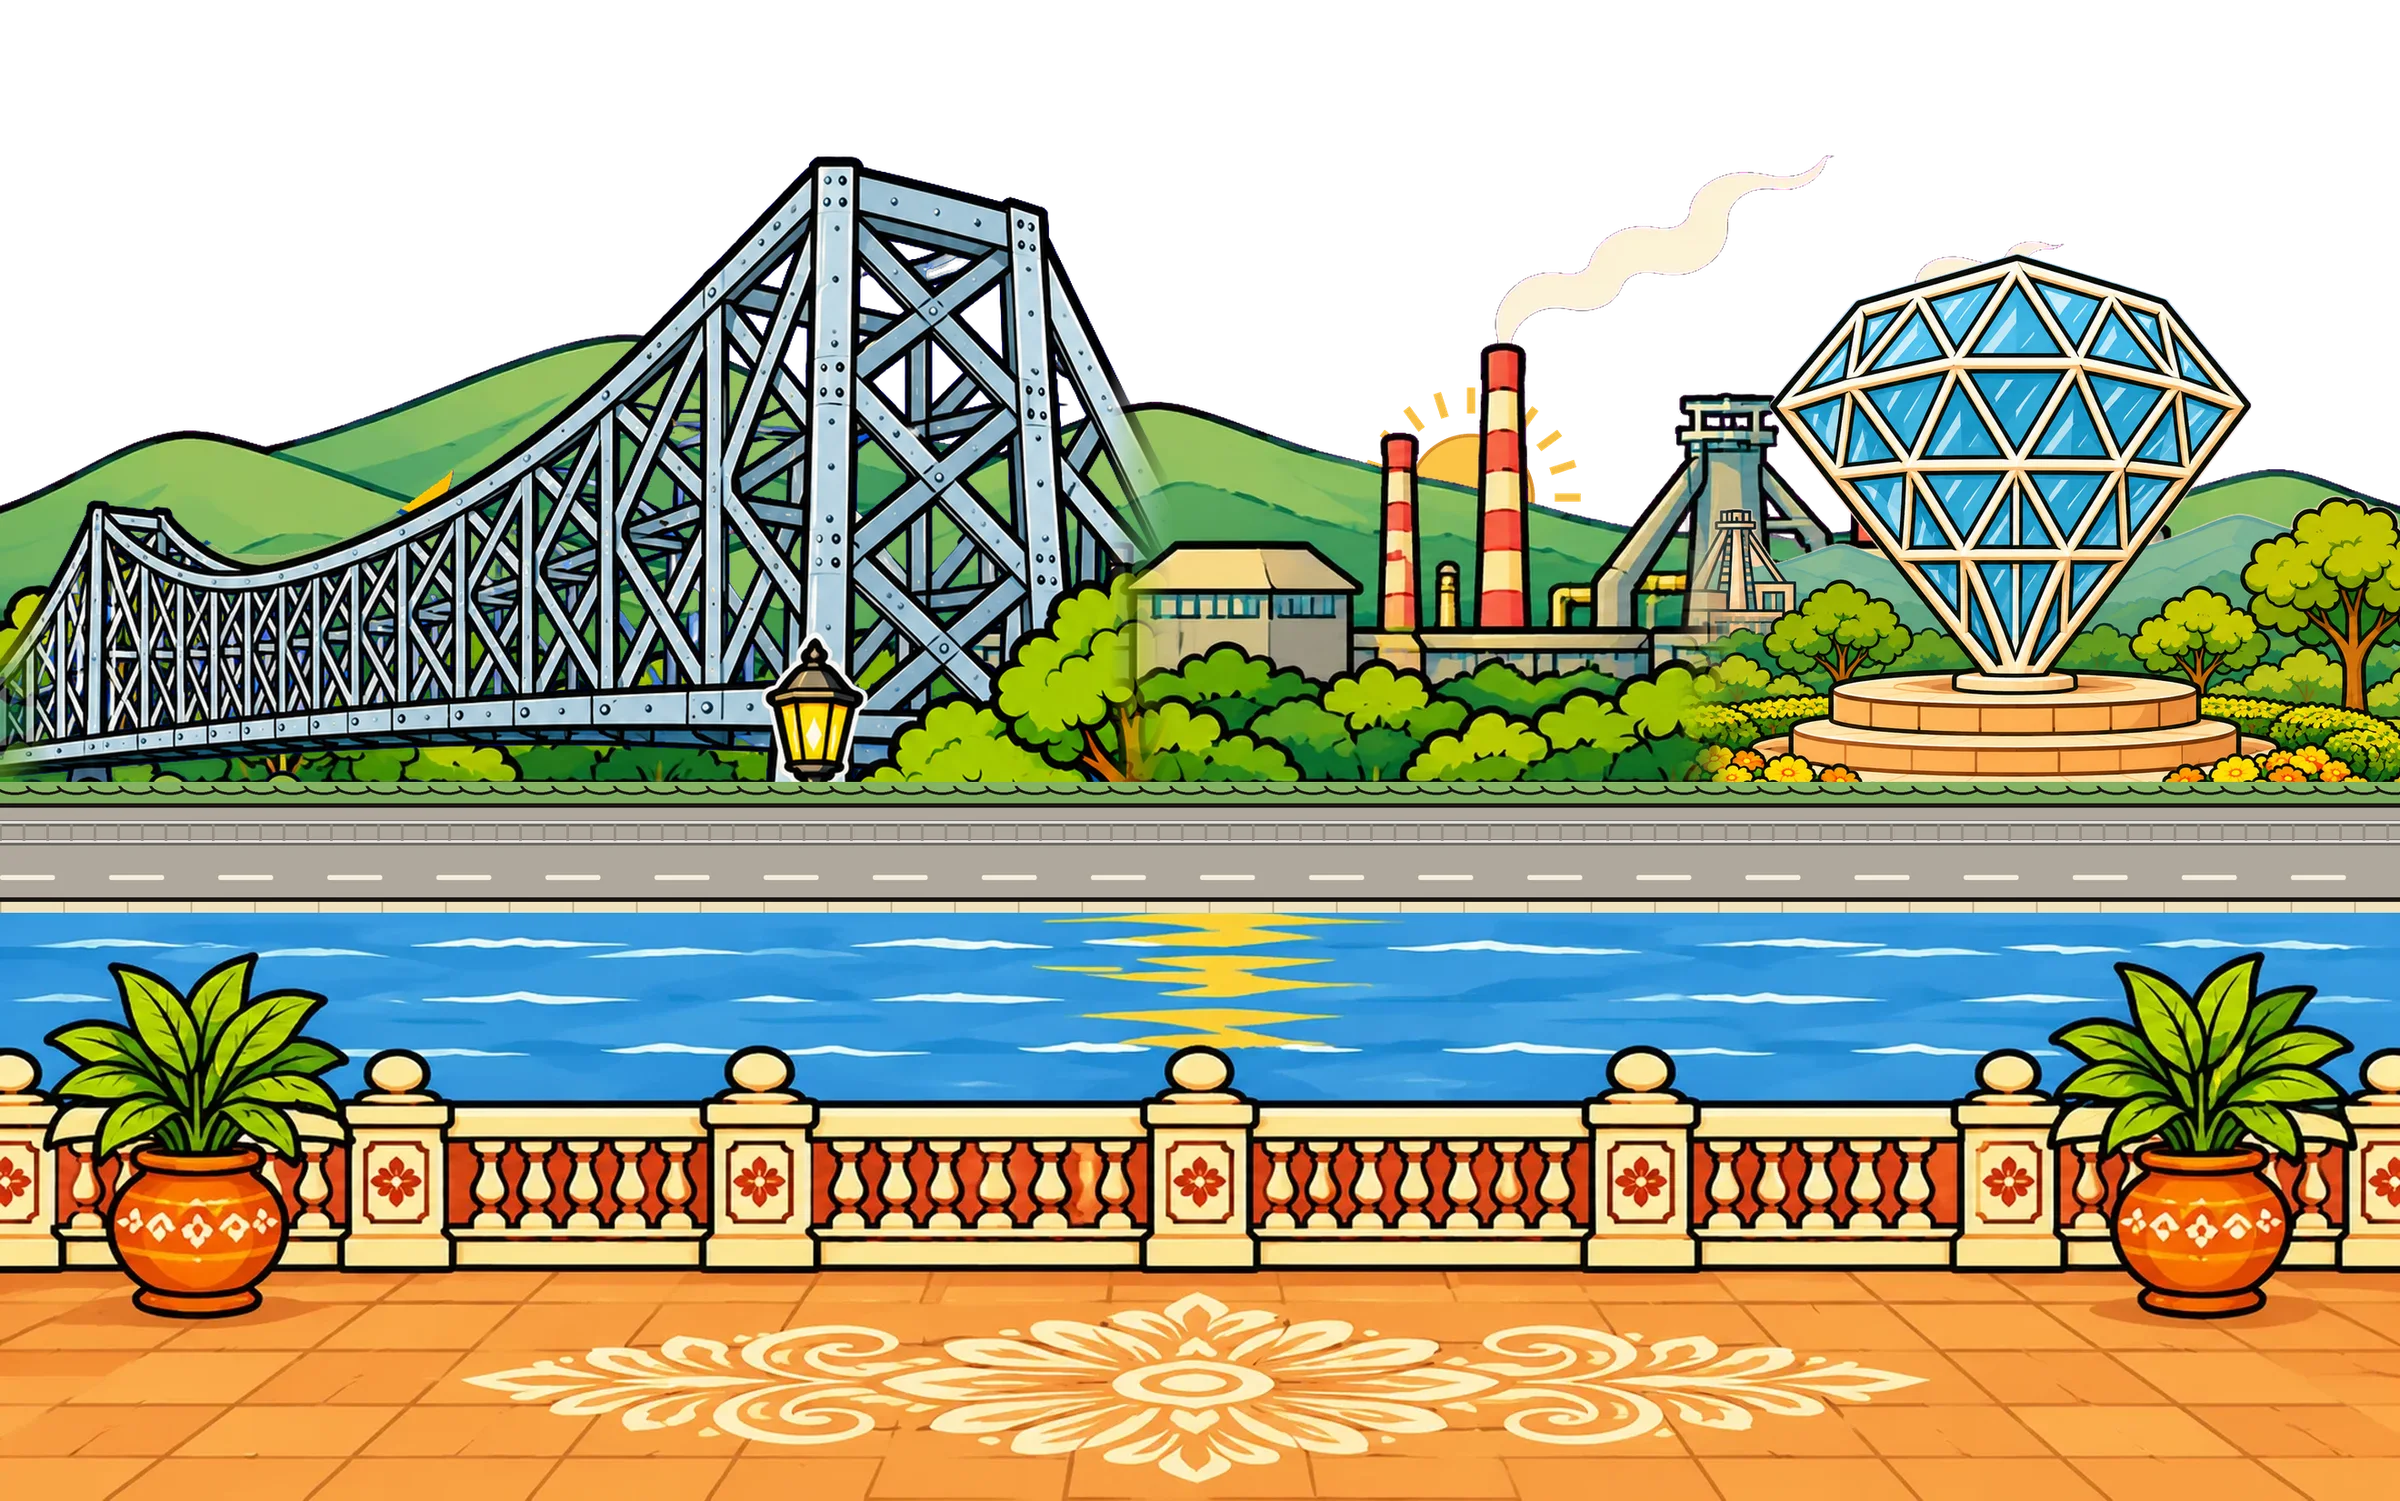
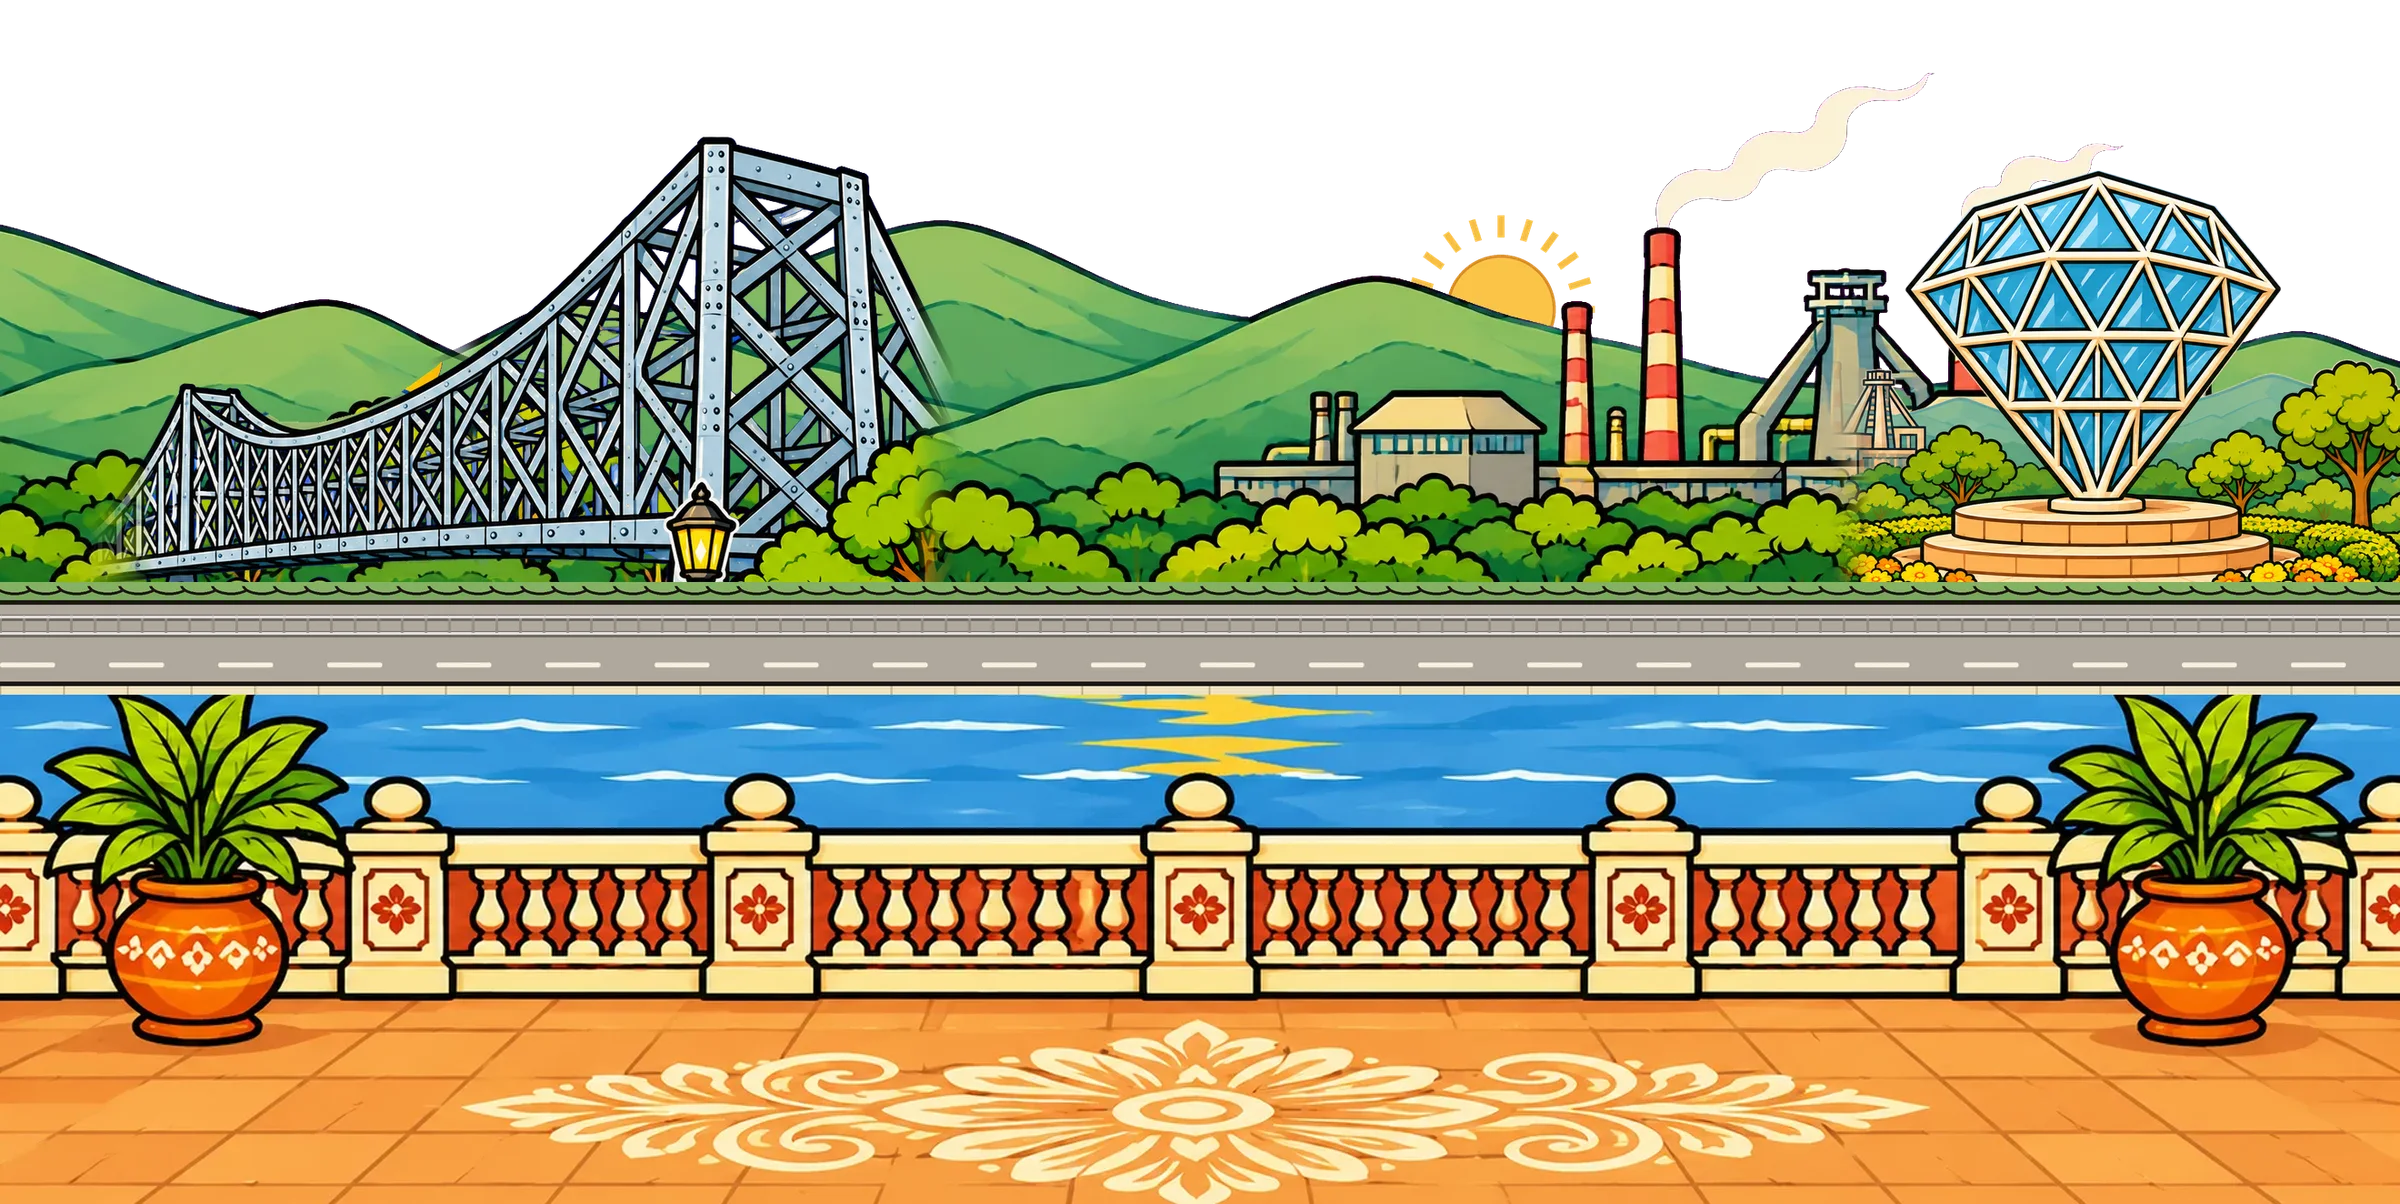
Opening page: same-size marigold strands in a V, bigger elephant and thali on phones; first page fits laptop screens

diff --git a/src/styles.css b/src/styles.css
@@ -123,15 +123,18 @@ button { font: inherit; color: inherit; cursor: pointer; border: 0; background: 
 }
 
 /* ---- opening screen: a sindoor seal on cream paper, then the doors ---- */
-.gate { position: fixed; inset: 0; z-index: 50; overflow: hidden; --seal: min(66vw, 40svh, 430px); --bed: min(36vw, 300px, 17svh); }
+.gate { position: fixed; inset: 0; z-index: 50; overflow: hidden; --seal: min(66vw, 40svh, 430px); --bed: min(46vw, 330px, 21svh); }
 .g-page { position: absolute; inset: 0; z-index: 2; overflow: hidden; background: #fbefd6 50% 50% / cover no-repeat; }
 .g-garland { position: absolute; z-index: 4; top: -1px; left: 0; right: 0; height: min(15vw, 120px); background: 50% 0 / auto 100% repeat-x; pointer-events: none; }
 /* marigold strands hanging from the toran: a long one with a shorter one inside it (and a third outside on wide screens) */
-.g-mala { position: absolute; z-index: 3; top: 0; width: auto; pointer-events: none; transform-origin: 50% 0; }
-.g-mala-l { left: var(--x); } .g-mala-r { right: var(--x); }
-.g-m1 { --x: max(6px, 2vw); height: min(46svh, 132vw); }
-.g-m2 { --x: 12.5vw; height: min(26svh, 74vw); }
-.g-m3 { display: none; }
+/* marigold strands hanging from the toran, all the same size: each one is the same picture,
+   pulled up so only --len shows, and the bells make a V (longest near the edge, shorter inward) */
+.g-mala { position: absolute; z-index: 3; height: var(--mh); top: calc(var(--len) - var(--mh)); width: auto; pointer-events: none; transform-origin: 50% 0; }
+.g-mala-l { left: calc(var(--i) * var(--mh) * 0.096 + 0.4vw); } .g-mala-r { right: calc(var(--i) * var(--mh) * 0.096 + 0.4vw); }
+.gate { --mh: 40svh; }
+.g-m1 { --i: 0; --len: 30svh; } .g-m2 { --i: 1; --len: 36svh; } .g-m3 { --i: 2; --len: 24svh; }
+.g-m4, .g-m5, .g-m6 { display: none; }
+.g-inv { max-width: calc(100vw - 2 * (var(--mh) * 0.288 + 0.4vw) - 12px); }
 .g-pais { position: absolute; z-index: 1; width: min(46vw, 360px); opacity: .5; pointer-events: none; }
 .g-pais-l { left: 0; top: 9svh; } .g-pais-r { right: 0; top: 9svh; scale: -1 1; }
 .g-flowers { position: absolute; z-index: 3; left: 0; right: 0; bottom: 0; height: min(9svh, 90px); background: 50% 100% / auto 100% repeat-x; pointer-events: none; }
@@ -148,7 +151,7 @@ button { font: inherit; color: inherit; cursor: pointer; border: 0; background: 
 .g-title { position: relative; z-index: 2; display: flex; flex-direction: column; align-items: center; font: 400 calc(var(--seal) * 0.13) / 1.05 var(--display); color: #fff6e4; text-shadow: 0 2px 10px #4e0a0e73; }
 .g-title:lang(en) { font-size: calc(var(--seal) * 0.105); }
 .g-pulse { position: absolute; inset: 22%; z-index: 2; border-radius: 50%; border: 2px solid #fff1d6bf; pointer-events: none; }
-.g-names { position: relative; z-index: 3; margin-top: 2.4svh; font: 400 clamp(26px, 7.4vw, 50px) / 1.2 var(--display); color: var(--crimson); }
+.g-names { position: relative; z-index: 3; margin-top: 2.4svh; font: 400 clamp(24px, 6.6vw, 46px) / 1.2 var(--display); color: var(--crimson); }
 .g-date { position: relative; z-index: 3; margin-top: 4px; font-size: clamp(15px, 4vw, 20px); color: var(--ink); }
 .g-langs { position: relative; z-index: 5; display: flex; gap: 6px; margin-top: 2.2svh; }
 .g-langs button { min-height: 40px; padding: 6px 16px; border: 1px solid #b3123f66; border-radius: 99px; font-size: 16px; background: #fffaf0cc; }
@@ -179,9 +182,10 @@ button { font: inherit; color: inherit; cursor: pointer; border: 0; background: 
   .g-langs button { min-height: 44px; padding: 8px 22px; font-size: clamp(16px, 2.3svh, 21px); }
   .g-hint { font-size: clamp(16px, 2.3svh, 21px); }
   .g-garland { height: min(14svh, 130px); }
-  .g-m1 { --x: 4.6vw; height: min(60svh, 560px); }
-  .g-m2 { --x: 10.4vw; height: min(44svh, 420px); }
-  .g-m3 { display: block; --x: 1.2vw; height: min(50svh, 470px); }
+  .gate { --mh: min(66svh, 620px); }
+  .g-m1 { --len: 49svh; } .g-m2 { --len: 53svh; } .g-m3 { --len: 57svh; }
+  .g-m4 { --i: 3; --len: 54svh; } .g-m5 { --i: 4; --len: 51svh; } .g-m6 { --i: 5; --len: 48svh; }
+  .g-m4, .g-m5, .g-m6 { display: block; }
   .g-pais { width: min(30vw, 440px); }
   .g-bed { width: min(21vw, 46svh, 330px); bottom: 2svh; }
   .g-bed-l { left: 3vw; } .g-bed-r { right: 3vw; }

diff --git a/src/components/Layer.jsx b/src/components/Layer.jsx
@@ -7,18 +7,19 @@ import { artUrl } from '../art/index.js'
 //   w,h size of the picture
 const u = (n) => `calc(${n} * var(--u))`
 
-export default function Layer({ id, art, w, h, x = 0, y = 0, ax = 'c', ay = 'b', z = 1, flip, full, kind = 'prop', fit = 'contain', road }) {
+export default function Layer({ id, art, w, h, x = 0, y = 0, ax = 'c', ay = 'b', z = 1, flip, full, kind = 'prop', fit = 'contain', road, tall }) {
   const name = art || id
   const url = artUrl(name)
   // something that rides on a painted road: sized and placed as fractions of the backdrop strip's width,
   // so it stays on its lane whatever the screen size ({ base: strip width in units, at: lane height, rw: own width })
   if (road) {
-    const sw = `max(${u(road.base)}, 100cqw)`
+    const sw = `max(${u(road.base)}, 100cqw${road.tall ? `, ${road.tall} * 100cqh` : ''})`
     const width = `calc(${sw} * ${road.rw})`
     const style = { zIndex: z, width, height: `calc(${width} * ${h / w})`, left: '50%', marginLeft: `calc(${width} / -2)`, bottom: `calc(${sw} * ${road.at})` }
     return <div className={`layer k-${kind}`} data-l={id} style={style}><div className="layer-in"><img src={url} alt="" draggable="false" decoding="async" style={{ objectFit: 'contain', objectPosition: 'center bottom' }} /></div></div>
   }
-  const style = { zIndex: z, height: u(h), width: full ? `max(${u(w)}, 100cqw)` : u(w) }
+  // `tall`: a strip may also grow so it reaches this many screen heights, cropping its sides on boxier screens
+  const style = { zIndex: z, height: u(h), width: full ? `max(${u(w)}, 100cqw${tall ? `, ${(tall * w / h).toFixed(4)} * 100cqh` : ''})` : u(w) }
   // a full-width strip keeps its proportions when a wide screen stretches it
   if (full) style.height = `calc(${style.width} * ${h / w})`
   if (kind === 'frame') { style.width = u(w); style.height = '100cqh' }

diff --git a/src/scenes/scenes.js b/src/scenes/scenes.js
@@ -33,10 +33,10 @@ export const SCENES = [
       ...clouds(),
       // one painted far bank (Howrah Bridge, the steel works, the Tata Park diamond, a road with tram rails),
       // a wide picture for laptops and a tall one for phones; the tram and the taxi drive along its road
-      L('scene-w', 2200, 1376, { art: 'hero-wide', z: 2, full: true, kind: 'ground' }),
+      L('scene-w', 2200, 1103, { art: 'hero-wide', z: 2, full: true, kind: 'ground', tall: 0.88 }),
       L('scene-t', 1300, 1765, { art: 'hero-tall', z: 2, full: true, kind: 'ground' }),
-      L('tram-w', 1400, 588, { art: 'kolkata-tram', z: 3, road: { base: 2200, at: 0.2729, rw: 0.108 } }),
-      L('taxi-w', 1400, 629, { art: 'kolkata-taxi', z: 4, road: { base: 2200, at: 0.2519, rw: 0.076 } }),
+      L('tram-w', 1400, 588, { art: 'kolkata-tram', z: 3, road: { base: 2200, tall: 1.7552, at: 0.236, rw: 0.095 } }),
+      L('taxi-w', 1400, 629, { art: 'kolkata-taxi', z: 4, road: { base: 2200, tall: 1.7552, at: 0.2177, rw: 0.066 } }),
       L('tram-t', 1400, 588, { art: 'kolkata-tram', z: 3, road: { base: 1300, at: 0.4317, rw: 0.2 } }),
       L('taxi-t', 1400, 629, { art: 'kolkata-taxi', z: 4, road: { base: 1300, at: 0.3889, rw: 0.135 } }),
       person('hero-groom', 470, 960, -230, 110, 7), person('hero-bride', 520, 960, 210, 110, 8),

diff --git a/src/components/Gate.jsx b/src/components/Gate.jsx
@@ -108,7 +108,7 @@ export default function Gate({ c, lang, langs, names, setLang, onOpen, onGone })
       <div className="g-page" style={{ backgroundImage: `url(${paper})` }}>
         <img className="g-pais g-pais-l" src={artUrl('gate-paisley')} alt="" />
         <img className="g-pais g-pais-r" src={artUrl('gate-paisley')} alt="" />
-        {['l', 'r'].flatMap((s) => [3, 1, 2].map((n) => <img key={s + n} className={`g-mala g-mala-${s} g-m${n}`} src={artUrl('gate-mala')} alt="" />))}
+        {['l', 'r'].flatMap((s) => [1, 2, 3, 4, 5, 6].map((n) => <img key={s + n} className={`g-mala g-mala-${s} g-m${n}`} src={artUrl('gate-mala')} alt="" />))}
         <div className="g-garland" style={{ backgroundImage: `url(${artUrl('gate-toran')})` }} />
         <div className="g-flowers" style={{ backgroundImage: `url(${artUrl('gate-flowers')})` }} />
         <img className="g-bed g-bed-l" src={artUrl('gate-elephant')} alt="" />

diff --git a/scripts/compose-hero.py b/scripts/compose-hero.py
@@ -138,25 +138,30 @@ def build(kind):
     dia = sky_out('art/raw/diamond-park.png')
     br = bridge()
     if kind == 'wide':
+        # flat enough (about 1:2) to fit a laptop screen without cutting the tops off
         W = 2640
-        ground_s = W / gb.width
-        gh = round(gb.height * ground_s)
-        R = 150
-        land = 860
+        gb = gb.resize((W, round(gb.height * W / gb.width)), Image.LANCZOS)
+        gb = gb.crop((0, 60, W, 620))  # a little less river on top, a little less floor at the bottom
+        gh = gb.height
+        R = 130
+        land = 640
         H = land + R + gh
         base = Image.new('RGBA', (W, H), (0, 0, 0, 0))
         yroad = land
-        hs = W / hills.width
-        base.alpha_composite(fade(sun(70), 'l', 1), (int(W * 0.56), int(yroad - hills.height * hs * 0.62)))
-        paste(base, hills, 0, yroad - hills.height * hs + 40, hs)
-        # Kolkata: the bridge tower stands between the words and the couple, its span runs off the left edge
-        bs = 1.2
-        paste(base, fade(br, 'l', 60), W * 0.49 - br.width * bs, yroad - br.height * bs + 26, bs, flip=True)
+        hs = 1.0
+        hy = yroad - hills.height * hs + 40
+        base.alpha_composite(sun(60), (int(W * 0.58), int(yroad - hills.height * 0.7)))
+        left = hills.crop((0, 0, W - hills.width + 60, hills.height)).transpose(Image.FLIP_LEFT_RIGHT)
+        paste(base, left, 0, hy, 1)
+        paste(base, fade(hills, 'l', 60), W - hills.width, hy, 1)
+        # Kolkata: the bridge tower stands between the words and the couple, its span runs off to the left
+        bs = 0.86
+        paste(base, fade(br, 'l', 60), W * 0.40 - br.width * bs, yroad - br.height * bs + 22, bs, flip=True)
         # Jamshedpur: the diamond on the right
         crop = dia.crop((int(dia.width * 0.2), 0, int(dia.width * 0.86), int(dia.height * 0.84)))
-        crop = fade(crop, 'l', 80)
-        ds = 0.82
-        paste(base, crop, W - crop.width * ds + 30, yroad - crop.height * ds + 30, ds)
+        crop = fade(crop, 'l', 70)
+        ds = 0.64
+        paste(base, crop, W - crop.width * ds + 20, yroad - crop.height * ds + 24, ds)
     else:
         W = 1296
         gs = 1.0
